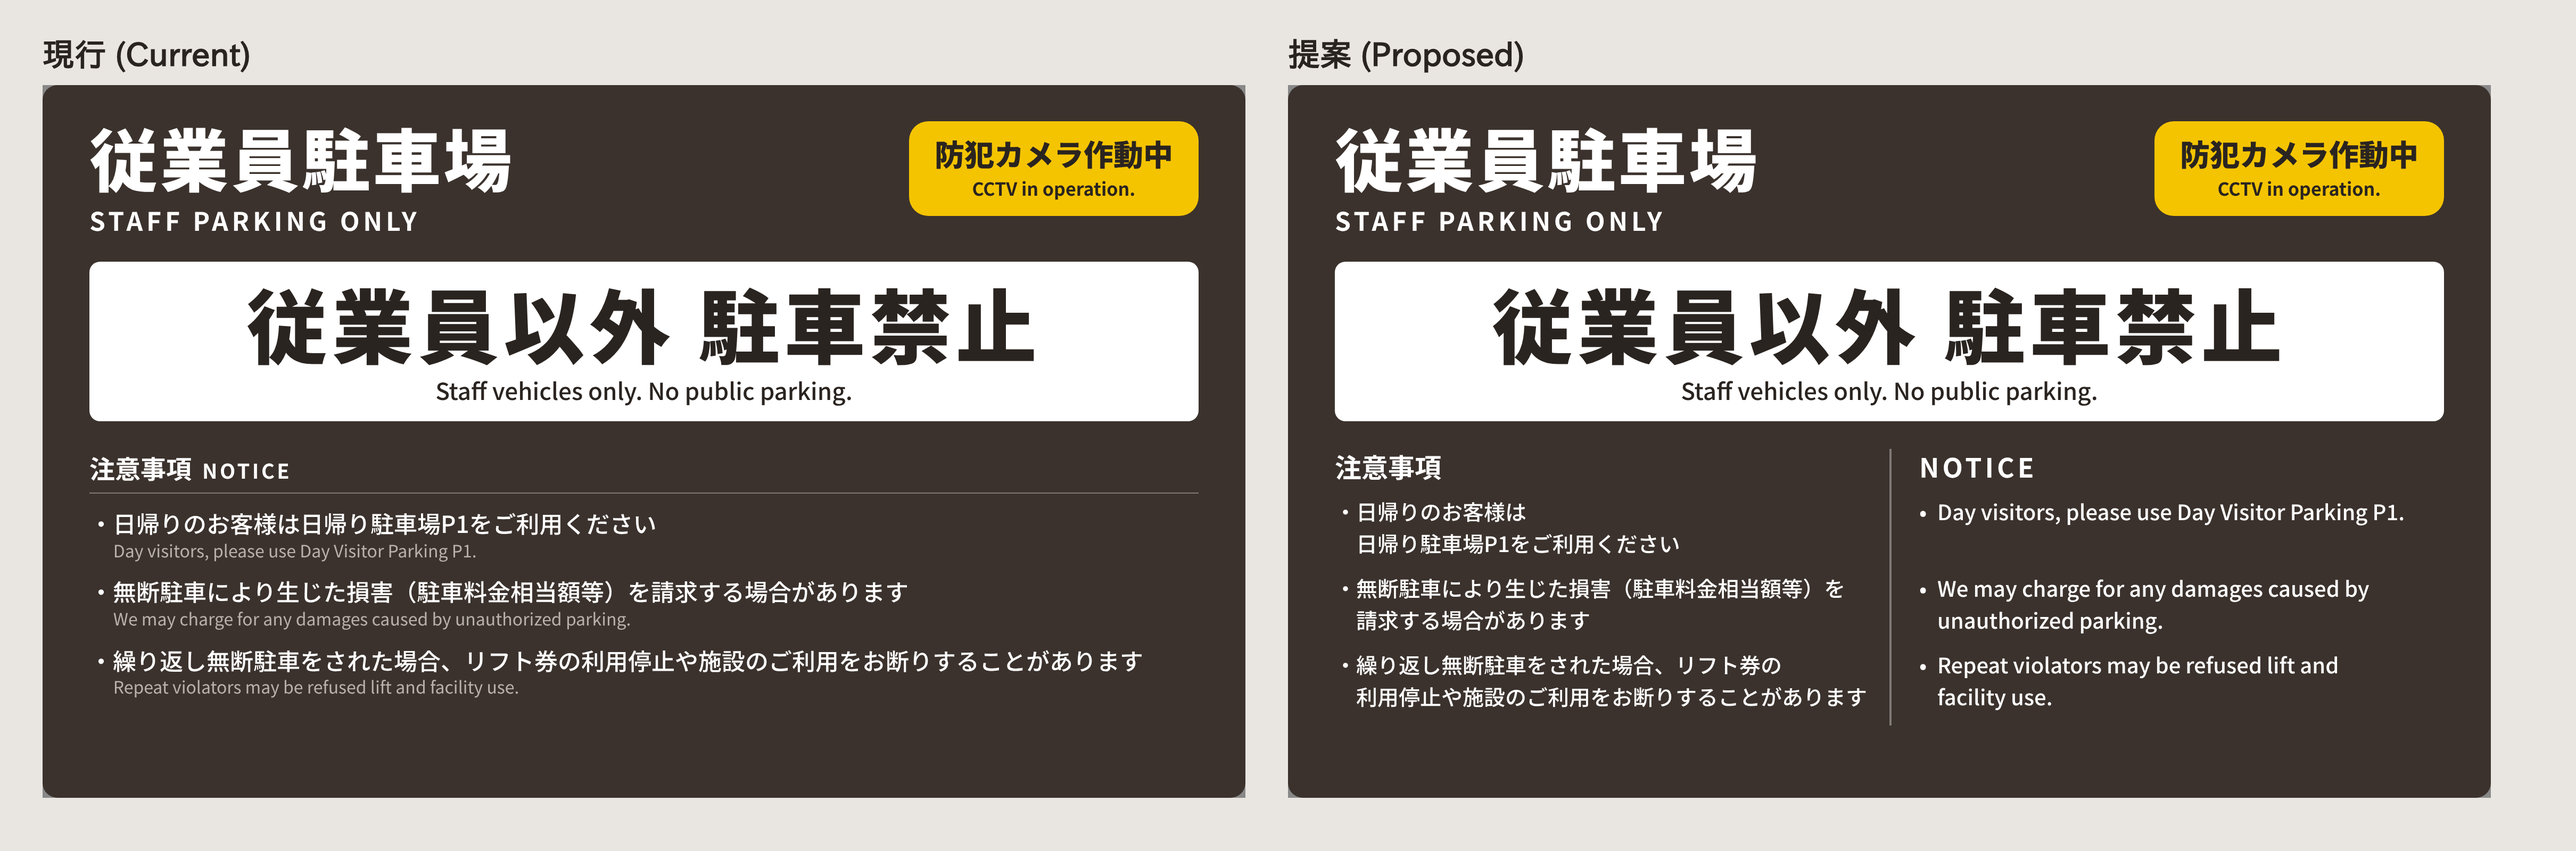
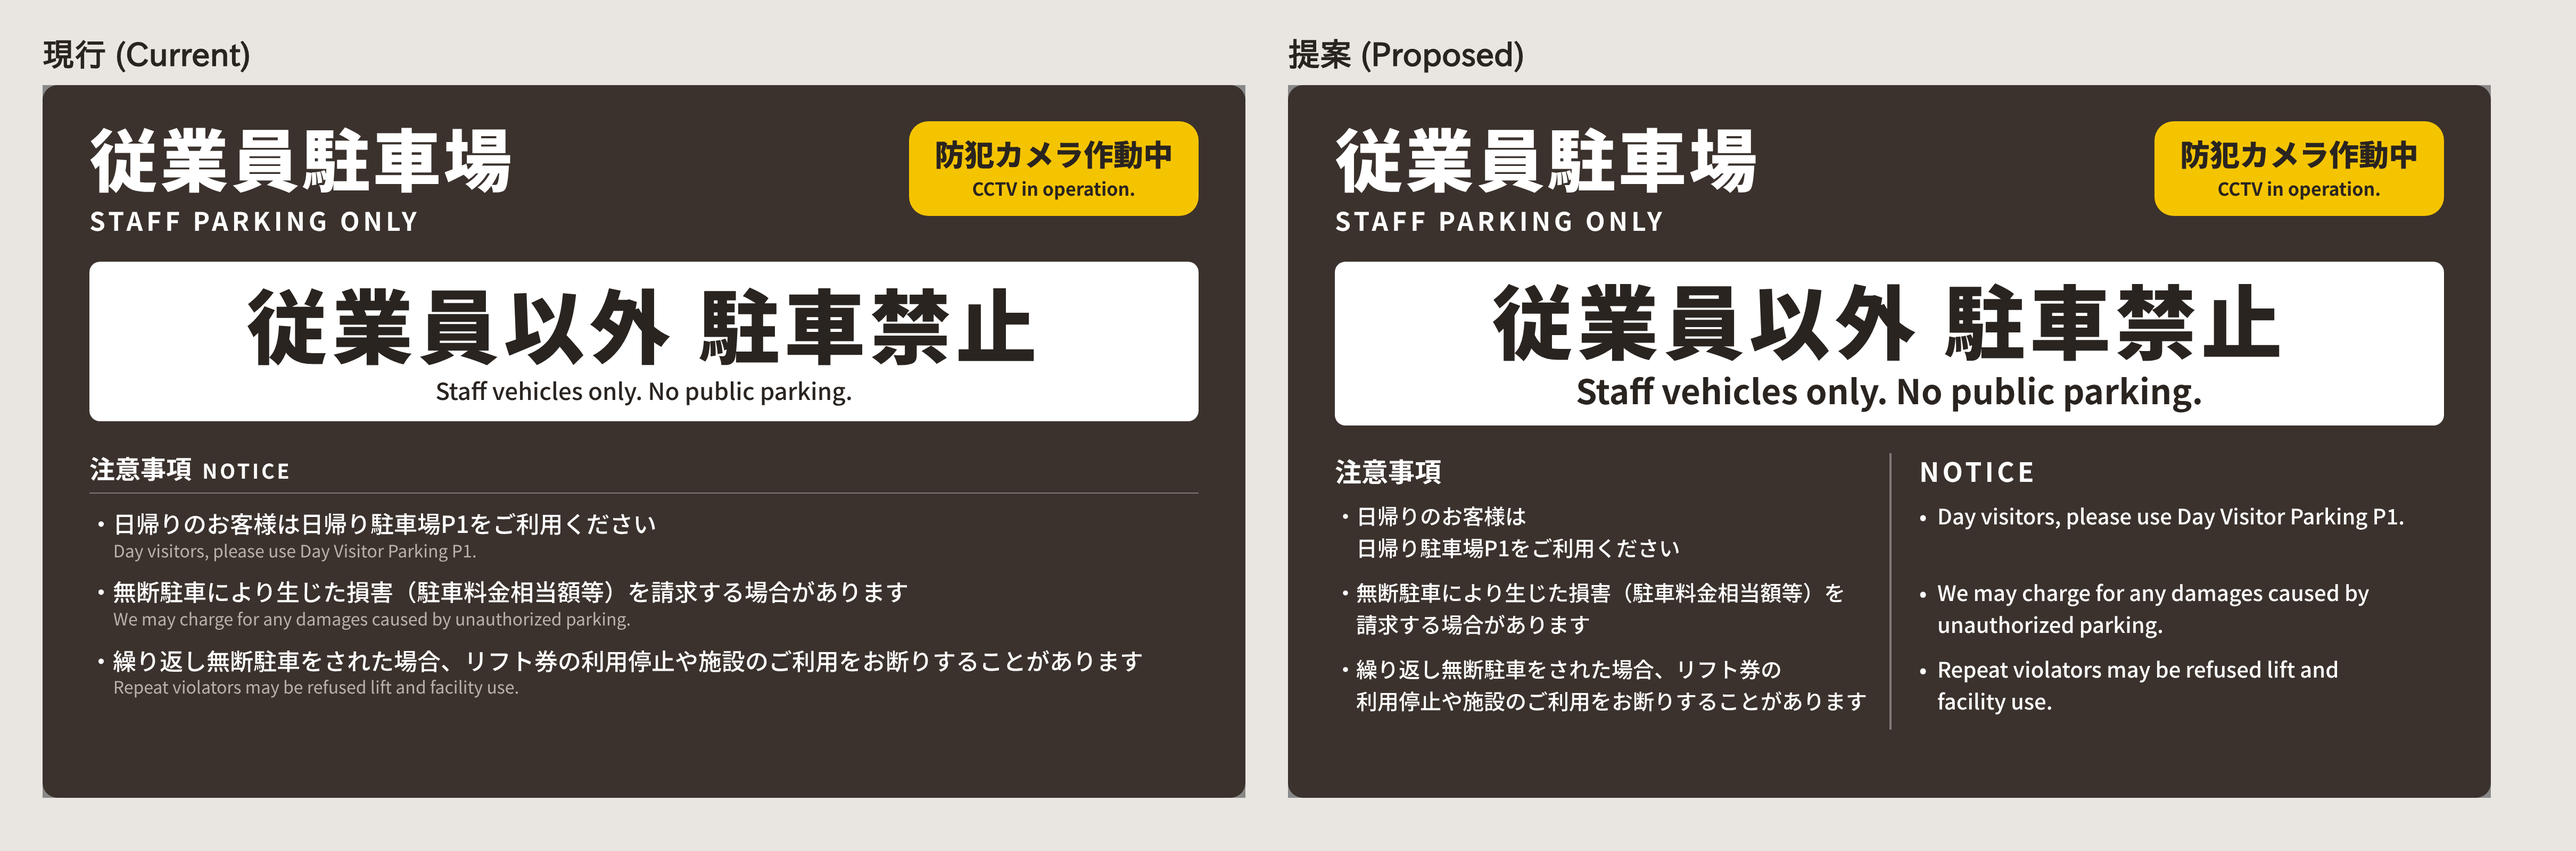
Add day visitor & hotel guest parking sign redesigns; enlarge panel English
Claude-Session: https://claude.ai/code/session_01DHMn3YDqmPdw5TePdDEqum

diff --git a/data/signage/day_visitor_parking_sign_proposed.html b/data/signage/day_visitor_parking_sign_proposed.html
@@ -1,0 +1,79 @@
+<!doctype html>
+<html lang="ja">
+<head>
+<meta charset="utf-8">
+<title>Day Visitor Parking Sign — Proposed</title>
+<link rel="preconnect" href="https://fonts.googleapis.com">
+<link href="https://fonts.googleapis.com/css2?family=Noto+Sans+JP:wght@400;500;700;900&display=swap" rel="stylesheet">
+<style>
+  :root { --bg:#3b322d; --fg:#ffffff; --yellow:#f5c400; --ink:#2a2420; --grey:#b9b1aa; --rule:rgba(255,255,255,0.35); }
+  * { box-sizing:border-box; margin:0; padding:0; }
+  html, body { background:#888; }
+  body { font-family:"Noto Sans JP","IPAPGothic","IPAGothic","WenQuanYi Zen Hei",sans-serif; }
+  .sign { width:1130px; height:670px; background:var(--bg); color:var(--fg); padding:34px 44px 30px;
+          display:flex; flex-direction:column; border-radius:14px; overflow:hidden; }
+  header { display:flex; justify-content:space-between; align-items:flex-start; }
+  .title-jp { font-size:64px; font-weight:900; line-height:1.05; letter-spacing:0.04em; }
+  .title-en { font-size:24px; font-weight:700; letter-spacing:0.14em; margin-top:8px; }
+  .badge { background:var(--yellow); color:var(--ink); border-radius:18px; padding:14px 24px; text-align:center; }
+  .badge .jp { font-size:28px; font-weight:900; line-height:1.2; }
+  .badge .en { font-size:17px; font-weight:700; margin-top:2px; }
+  .panel { background:#fff; color:var(--ink); border-radius:10px; margin-top:20px; padding:14px 20px 12px; text-align:center; }
+  .panel .jp { font-size:60px; font-weight:900; line-height:1.1; letter-spacing:0.04em; }
+  .panel .sub { font-size:24px; font-weight:700; line-height:1.35; margin-top:6px; }
+  .panel .en { font-size:19px; font-weight:500; line-height:1.35; margin-top:4px; }
+
+  /* Panel English promoted to an equal message (Sho, 2nd round). */
+  .panel { padding:12px 24px 14px; }
+  .panel .en { font-size:30px; font-weight:700; line-height:1.25; margin-top:6px; text-wrap:balance; }
+  /* NOTICE: two equal columns; grid rows keep each JP bullet level with its EN counterpart. */
+  .notice { margin-top:18px; display:grid; grid-template-columns:minmax(0,1fr) minmax(0,1fr); }
+  .notice > * { padding:0 26px; }
+  .notice > .jp { padding-left:0; padding-right:18px; }
+  .notice > .en { padding-right:0; border-left:2px solid var(--rule); }
+  .notice h2 { font-size:22px; font-weight:700; line-height:1.3; padding-bottom:6px; }
+  .notice h2.en { letter-spacing:0.12em; }
+  .notice p { font-size:17px; font-weight:500; line-height:1.45; padding-bottom:6px; }
+  .notice p.jp { padding-left:1em; text-indent:-1em; word-break:auto-phrase; }
+  .notice p.jp.fixed { white-space:nowrap; } /* explicit phrase breaks */
+  .notice p.en { text-indent:-0.85em; padding-left:calc(26px + 0.85em); text-wrap:pretty; }
+  .notice p.en::before { content:"•"; display:inline-block; width:0.85em; text-indent:0; }
+</style>
+</head>
+<body>
+<div class="sign">
+  <header>
+    <div>
+      <div class="title-jp">日帰り駐車場 P1・P2</div>
+      <div class="title-en">DAY VISITOR PARKING</div>
+    </div>
+  </header>
+
+  <div class="panel">
+    <div class="jp">駐車料金　1台 1,000円</div>
+    <div class="sub">土日祝・年末年始（12/26〜1/3）　※平日・3/22以降は無料</div>
+    <div class="en" lang="en">¥1,000 per vehicle on weekends, holidays &amp; Dec&nbsp;26&nbsp;–&nbsp;Jan&nbsp;3<br>(free on weekdays and from Mar&nbsp;22)</div>
+  </div>
+
+  <section class="notice">
+    <h2 class="jp" lang="ja">注意事項</h2>
+    <h2 class="en" lang="en">NOTICE</h2>
+
+    <p class="jp" lang="ja">・23:00〜翌6:00は除雪のため駐車できません</p>
+    <p class="en" lang="en">No parking 11 PM – 6 AM (snow removal).</p>
+
+    <p class="jp" lang="ja">・駐車券はダッシュボードの見える位置に置いてください</p>
+    <p class="en" lang="en">Display your parking ticket on the dashboard.</p>
+
+    <p class="jp" lang="ja">・ご宿泊のお客様は宿泊者専用駐車場をご利用ください</p>
+    <p class="en" lang="en">Hotel guests, please use Hotel Guest Parking.</p>
+
+    <p class="jp" lang="ja">・上記時間帯におけるリゾート敷地内での車中泊や仮眠行為は禁止です</p>
+    <p class="en" lang="en">No overnight stays or sleeping in vehicles on resort grounds during these hours.</p>
+
+    <p class="jp" lang="ja">・場内での事故・盗難等の責任は負いかねます</p>
+    <p class="en" lang="en">Management is not responsible for accidents, theft or damage.</p>
+  </section>
+</div>
+</body>
+</html>

diff --git a/data/signage/hotel_guest_parking_sign_proposed.html b/data/signage/hotel_guest_parking_sign_proposed.html
@@ -1,0 +1,77 @@
+<!doctype html>
+<html lang="ja">
+<head>
+<meta charset="utf-8">
+<title>Hotel Guest Parking Sign — Proposed</title>
+<link rel="preconnect" href="https://fonts.googleapis.com">
+<link href="https://fonts.googleapis.com/css2?family=Noto+Sans+JP:wght@400;500;700;900&display=swap" rel="stylesheet">
+<style>
+  :root { --bg:#3b322d; --fg:#ffffff; --yellow:#f5c400; --ink:#2a2420; --grey:#b9b1aa; --rule:rgba(255,255,255,0.35); }
+  * { box-sizing:border-box; margin:0; padding:0; }
+  html, body { background:#888; }
+  body { font-family:"Noto Sans JP","IPAPGothic","IPAGothic","WenQuanYi Zen Hei",sans-serif; }
+  .sign { width:1130px; height:670px; background:var(--bg); color:var(--fg); padding:34px 44px 30px;
+          display:flex; flex-direction:column; border-radius:14px; overflow:hidden; }
+  header { display:flex; justify-content:space-between; align-items:flex-start; }
+  .title-jp { font-size:64px; font-weight:900; line-height:1.05; letter-spacing:0.04em; }
+  .title-en { font-size:24px; font-weight:700; letter-spacing:0.14em; margin-top:8px; }
+  .badge { background:var(--yellow); color:var(--ink); border-radius:18px; padding:14px 24px; text-align:center; }
+  .badge .jp { font-size:28px; font-weight:900; line-height:1.2; }
+  .badge .en { font-size:17px; font-weight:700; margin-top:2px; }
+  .panel { background:#fff; color:var(--ink); border-radius:10px; margin-top:20px; padding:14px 20px 12px; text-align:center; }
+  .panel .jp { font-size:60px; font-weight:900; line-height:1.1; letter-spacing:0.04em; }
+  .panel .sub { font-size:24px; font-weight:700; line-height:1.35; margin-top:6px; }
+  .panel .en { font-size:19px; font-weight:500; line-height:1.35; margin-top:4px; }
+
+  /* Panel English promoted to an equal message (Sho, 2nd round). */
+  .panel { padding:12px 24px 14px; }
+  .panel .en { font-size:32px; font-weight:700; line-height:1.25; margin-top:6px; text-wrap:balance; }
+  /* NOTICE: two equal columns; grid rows keep each JP bullet level with its EN counterpart. */
+  .notice { margin-top:18px; display:grid; grid-template-columns:minmax(0,1fr) minmax(0,1fr); }
+  .notice > * { padding:0 26px; }
+  .notice > .jp { padding-left:0; padding-right:18px; }
+  .notice > .en { padding-right:0; border-left:2px solid var(--rule); }
+  .notice h2 { font-size:22px; font-weight:700; line-height:1.3; padding-bottom:4px; }
+  .notice h2.en { letter-spacing:0.12em; }
+  .notice p { font-size:18px; font-weight:500; line-height:1.45; padding-bottom:6px; }
+  .notice p.jp { padding-left:1em; text-indent:-1em; word-break:auto-phrase; }
+  .notice p.jp.fixed { white-space:nowrap; } /* explicit phrase breaks */
+  .notice p.en { text-indent:-0.85em; padding-left:calc(26px + 0.85em); text-wrap:pretty; }
+  .notice p.en::before { content:"•"; display:inline-block; width:0.85em; text-indent:0; }
+</style>
+</head>
+<body>
+<div class="sign">
+  <header>
+    <div>
+      <div class="title-jp">宿泊者専用駐車場</div>
+      <div class="title-en">HOTEL GUEST PARKING ONLY</div>
+    </div>
+    <div class="badge">
+      <div class="jp">防犯カメラ作動中</div>
+      <div class="en">CCTV in operation.</div>
+    </div>
+  </header>
+
+  <div class="panel">
+    <div class="jp">日帰りのお客様は駐車できません</div>
+    <div class="sub">→ 日帰り駐車場P1へ（土日祝・年末年始 1台1,000円）</div>
+    <div class="en" lang="en">Day visitors may not park here. Please use Day Visitor Parking P1.</div>
+  </div>
+
+  <section class="notice">
+    <h2 class="jp" lang="ja">注意事項</h2>
+    <h2 class="en" lang="en">NOTICE</h2>
+
+    <p class="jp fixed" lang="ja">・チェックイン時にフロントにて車両ナンバーを<br>お伺いいたします。お申し出のない車両は、<br>係員が確認のうえ移動をお願いすることがあります</p>
+    <p class="en" lang="en">Please provide your license plate number at the Front Desk when checking in. Unregistered vehicles may be checked by staff and asked to move.</p>
+
+    <p class="jp" lang="ja">・無断駐車により生じた損害を請求する場合があります</p>
+    <p class="en" lang="en">We may charge for any damages caused by unauthorized parking.</p>
+
+    <p class="jp" lang="ja">・場内での事故・盗難等の責任は負いかねます</p>
+    <p class="en" lang="en">Management is not responsible for accidents, theft or damage.</p>
+  </section>
+</div>
+</body>
+</html>

diff --git a/data/signage/day_visitor_parking_sign_current.html b/data/signage/day_visitor_parking_sign_current.html
@@ -1,0 +1,62 @@
+<!doctype html>
+<html lang="ja">
+<head>
+<meta charset="utf-8">
+<title>Day Visitor Parking Sign — Current</title>
+<link rel="preconnect" href="https://fonts.googleapis.com">
+<link href="https://fonts.googleapis.com/css2?family=Noto+Sans+JP:wght@400;500;700;900&display=swap" rel="stylesheet">
+<style>
+  :root { --bg:#3b322d; --fg:#ffffff; --yellow:#f5c400; --ink:#2a2420; --grey:#b9b1aa; --rule:rgba(255,255,255,0.35); }
+  * { box-sizing:border-box; margin:0; padding:0; }
+  html, body { background:#888; }
+  body { font-family:"Noto Sans JP","IPAPGothic","IPAGothic","WenQuanYi Zen Hei",sans-serif; }
+  .sign { width:1130px; height:670px; background:var(--bg); color:var(--fg); padding:34px 44px 30px;
+          display:flex; flex-direction:column; border-radius:14px; overflow:hidden; }
+  header { display:flex; justify-content:space-between; align-items:flex-start; }
+  .title-jp { font-size:64px; font-weight:900; line-height:1.05; letter-spacing:0.04em; }
+  .title-en { font-size:24px; font-weight:700; letter-spacing:0.14em; margin-top:8px; }
+  .badge { background:var(--yellow); color:var(--ink); border-radius:18px; padding:14px 24px; text-align:center; }
+  .badge .jp { font-size:28px; font-weight:900; line-height:1.2; }
+  .badge .en { font-size:17px; font-weight:700; margin-top:2px; }
+  .panel { background:#fff; color:var(--ink); border-radius:10px; margin-top:20px; padding:14px 20px 12px; text-align:center; }
+  .panel .jp { font-size:60px; font-weight:900; line-height:1.1; letter-spacing:0.04em; }
+  .panel .sub { font-size:24px; font-weight:700; line-height:1.35; margin-top:6px; }
+  .panel .en { font-size:19px; font-weight:500; line-height:1.35; margin-top:4px; }
+
+  .notice { margin-top:18px; }
+  .notice h2 { font-size:24px; font-weight:700; padding-bottom:6px; border-bottom:1px solid var(--rule); margin-bottom:6px; }
+  .notice h2 span { font-size:19px; letter-spacing:0.12em; margin-left:10px; }
+  .notice ul { list-style:none; }
+  .notice li { padding-left:1.2em; text-indent:-1.2em; margin-bottom:3px; }
+  .notice li .jp { font-size:19px; font-weight:500; line-height:1.4; display:block; }
+  .notice li .en { font-size:14px; color:var(--grey); line-height:1.35; display:block; padding-left:1.4em; }
+</style>
+</head>
+<body>
+<div class="sign">
+  <header>
+    <div>
+      <div class="title-jp">日帰り駐車場 P1・P2</div>
+      <div class="title-en">DAY VISITOR PARKING</div>
+    </div>
+  </header>
+
+  <div class="panel">
+    <div class="jp">駐車料金　1台 1,000円</div>
+    <div class="sub">土日祝・年末年始（12/26〜1/3）　※平日・3/22以降は無料</div>
+    <div class="en" lang="en">¥1,000 per vehicle on weekends, holidays &amp; Dec 26 – Jan 3 (free on weekdays)</div>
+  </div>
+
+  <section class="notice">
+    <h2>注意事項<span>NOTICE</span></h2>
+    <ul>
+      <li><span class="jp">・23:00〜翌6:00は除雪のため駐車できません</span><span class="en" lang="en">No parking 11 PM – 6 AM snow removal.</span></li>
+      <li><span class="jp">・駐車券はダッシュボードの見える位置に置いてください</span><span class="en" lang="en">Display your parking ticket on the dashboard.</span></li>
+      <li><span class="jp">・ご宿泊のお客様は宿泊者専用駐車場をご利用ください</span><span class="en" lang="en">Hotel guests, please use Hotel Guest Parking.</span></li>
+      <li><span class="jp">・上記時間帯におけるリゾート敷地内での車中泊や仮眠行為は禁止です</span><span class="en" lang="en">No overnight stays or sleeping in vehicles on resort grounds during these hours.</span></li>
+      <li><span class="jp">・場内での事故・盗難等の責任は負いかねます</span><span class="en" lang="en">Management is not responsible for accidents, theft or damage.</span></li>
+    </ul>
+  </section>
+</div>
+</body>
+</html>

diff --git a/data/signage/hotel_guest_parking_sign_current.html b/data/signage/hotel_guest_parking_sign_current.html
@@ -1,0 +1,64 @@
+<!doctype html>
+<html lang="ja">
+<head>
+<meta charset="utf-8">
+<title>Hotel Guest Parking Sign — Current</title>
+<link rel="preconnect" href="https://fonts.googleapis.com">
+<link href="https://fonts.googleapis.com/css2?family=Noto+Sans+JP:wght@400;500;700;900&display=swap" rel="stylesheet">
+<style>
+  :root { --bg:#3b322d; --fg:#ffffff; --yellow:#f5c400; --ink:#2a2420; --grey:#b9b1aa; --rule:rgba(255,255,255,0.35); }
+  * { box-sizing:border-box; margin:0; padding:0; }
+  html, body { background:#888; }
+  body { font-family:"Noto Sans JP","IPAPGothic","IPAGothic","WenQuanYi Zen Hei",sans-serif; }
+  .sign { width:1130px; height:670px; background:var(--bg); color:var(--fg); padding:34px 44px 30px;
+          display:flex; flex-direction:column; border-radius:14px; overflow:hidden; }
+  header { display:flex; justify-content:space-between; align-items:flex-start; }
+  .title-jp { font-size:64px; font-weight:900; line-height:1.05; letter-spacing:0.04em; }
+  .title-en { font-size:24px; font-weight:700; letter-spacing:0.14em; margin-top:8px; }
+  .badge { background:var(--yellow); color:var(--ink); border-radius:18px; padding:14px 24px; text-align:center; }
+  .badge .jp { font-size:28px; font-weight:900; line-height:1.2; }
+  .badge .en { font-size:17px; font-weight:700; margin-top:2px; }
+  .panel { background:#fff; color:var(--ink); border-radius:10px; margin-top:20px; padding:14px 20px 12px; text-align:center; }
+  .panel .jp { font-size:60px; font-weight:900; line-height:1.1; letter-spacing:0.04em; }
+  .panel .sub { font-size:24px; font-weight:700; line-height:1.35; margin-top:6px; }
+  .panel .en { font-size:19px; font-weight:500; line-height:1.35; margin-top:4px; }
+
+  .notice { margin-top:18px; }
+  .notice h2 { font-size:24px; font-weight:700; padding-bottom:6px; border-bottom:1px solid var(--rule); margin-bottom:8px; }
+  .notice h2 span { font-size:19px; letter-spacing:0.12em; margin-left:10px; }
+  .notice ul { list-style:none; }
+  .notice li { padding-left:1.2em; text-indent:-1.2em; margin-bottom:6px; }
+  .notice li .jp { font-size:20px; font-weight:500; line-height:1.4; display:block; }
+  .notice li .en { font-size:15px; color:var(--grey); line-height:1.35; display:block; padding-left:1.4em; }
+</style>
+</head>
+<body>
+<div class="sign">
+  <header>
+    <div>
+      <div class="title-jp">宿泊者専用駐車場</div>
+      <div class="title-en">HOTEL GUEST PARKING ONLY</div>
+    </div>
+    <div class="badge">
+      <div class="jp">防犯カメラ作動中</div>
+      <div class="en">CCTV in operation.</div>
+    </div>
+  </header>
+
+  <div class="panel">
+    <div class="jp">日帰りのお客様は駐車できません</div>
+    <div class="sub">→ 日帰り駐車場P1へ（土日祝・年末年始 1台1,000円）</div>
+    <div class="en" lang="en">Day visitors may not park here. Please use Day Visitor Parking P1.</div>
+  </div>
+
+  <section class="notice">
+    <h2>注意事項<span>NOTICE</span></h2>
+    <ul>
+      <li><span class="jp">・チェックイン時にフロントにて車両ナンバーをお伺いいたします。お申し出のない車両は、係員が確認のうえ移動をお願いすることがあります</span><span class="en" lang="en">Please provide your license plate number at the Front Desk when checking in. Unregistered vehicles may be checked by staff and asked to move.</span></li>
+      <li><span class="jp">・無断駐車により生じた損害を請求する場合があります</span><span class="en" lang="en">We may charge for any damages caused by unauthorized parking.</span></li>
+      <li><span class="jp">・場内での事故・盗難等の責任は負いかねます</span><span class="en" lang="en">Management is not responsible for accidents, theft or damage.</span></li>
+    </ul>
+  </section>
+</div>
+</body>
+</html>

diff --git a/data/signage/staff_parking_sign_proposed.html b/data/signage/staff_parking_sign_proposed.html
@@ -36,10 +36,11 @@
   .panel {
     background: #fff; color: var(--ink);
     border-radius: 10px; margin-top: 22px;
-    padding: 16px 20px 14px; text-align: center;
+    padding: 12px 20px 14px; text-align: center;
   }
   .panel .jp { font-size: 76px; font-weight: 900; line-height: 1.1; letter-spacing: 0.06em; }
-  .panel .en { font-size: 22px; font-weight: 500; margin-top: 4px; }
+  /* English promoted to an equal message: ~2x, bold, still well under the 76px headline */
+  .panel .en { font-size: 32px; font-weight: 700; line-height: 1.25; margin-top: 4px; }
 
   /* NOTICE: two equal columns. Grid rows keep each JP bullet level with its EN counterpart. */
   .notice {
